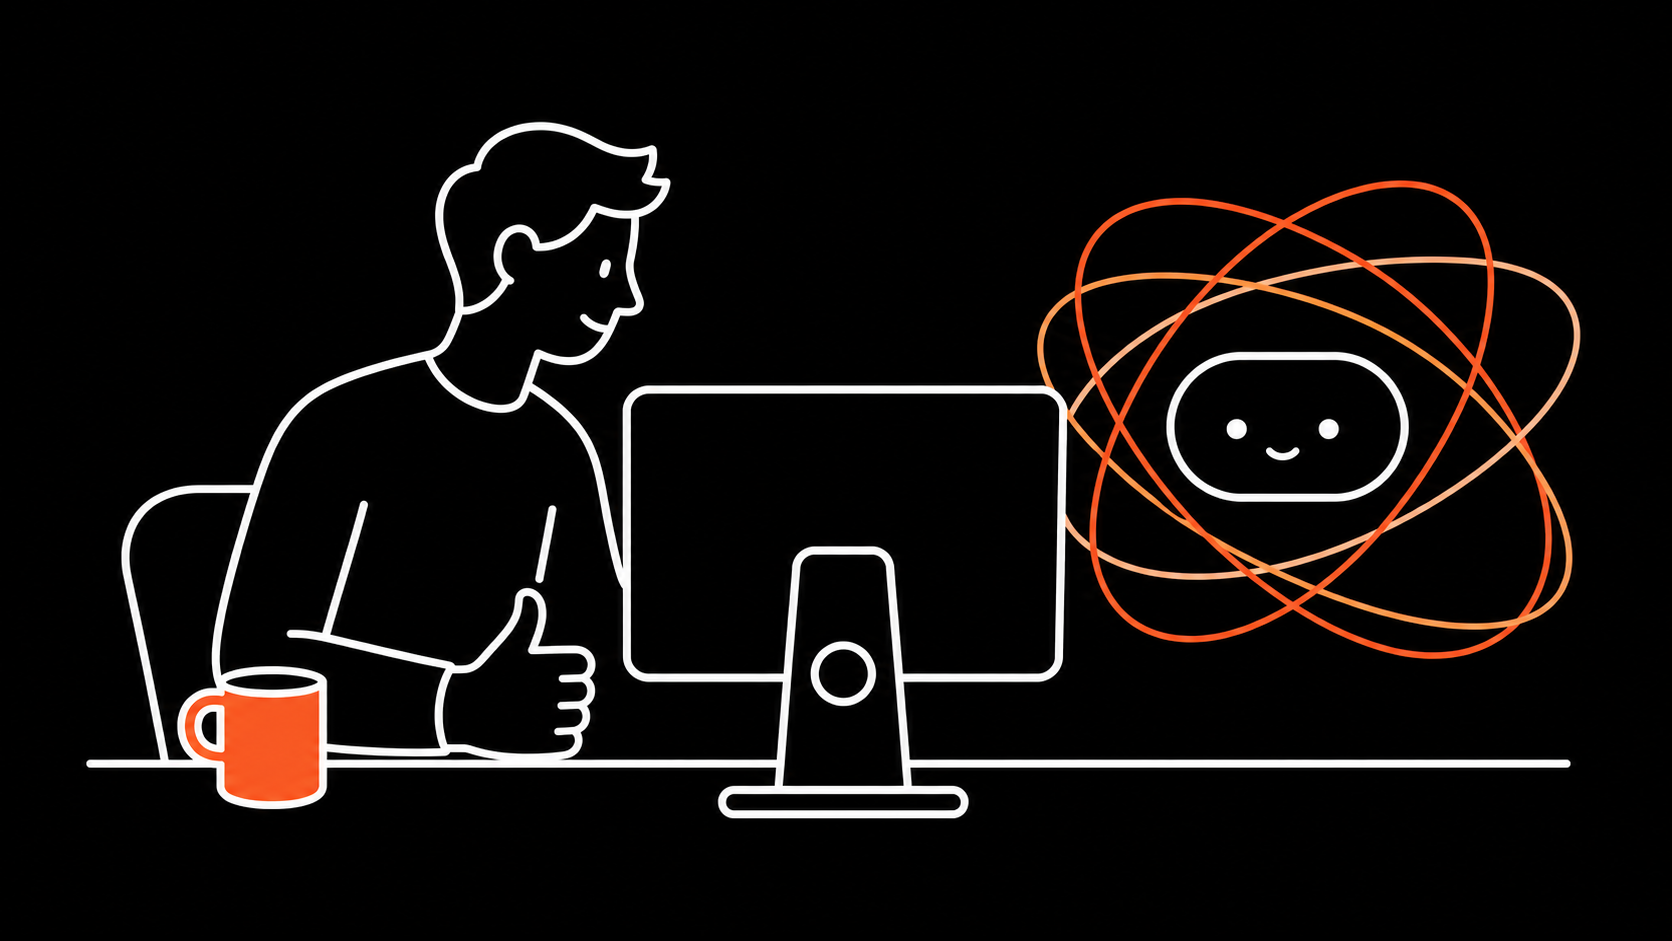
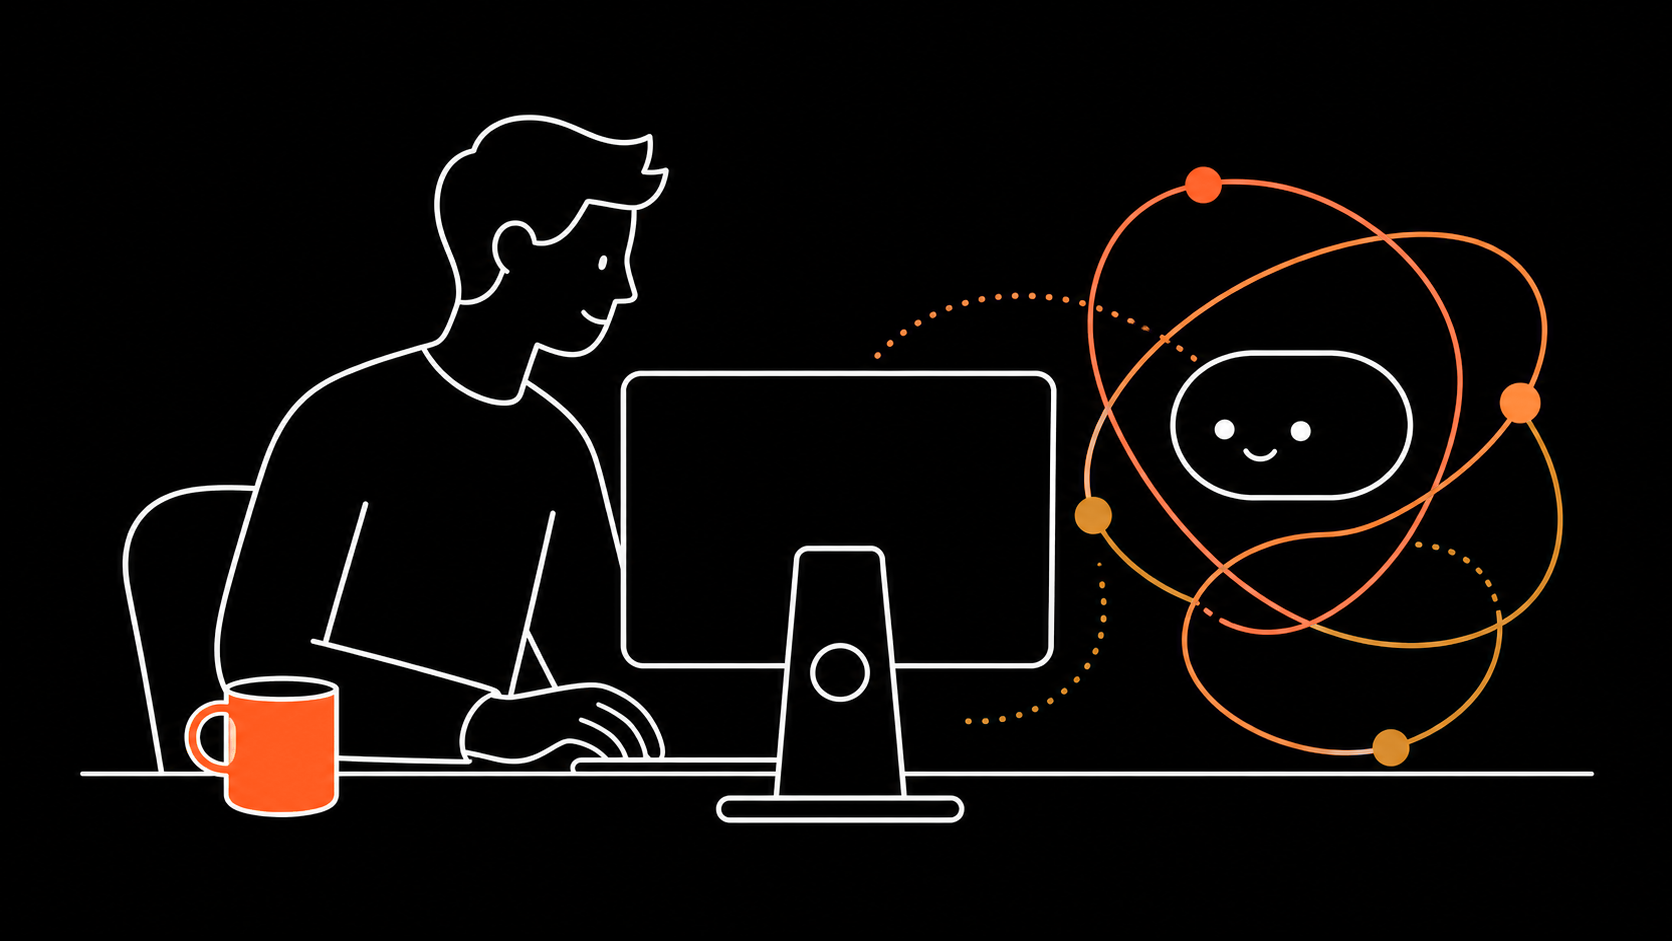
Use orange-shade human loop mockup

diff --git a/docs/design/curyo-human-loop-brand-mockups.html b/docs/design/curyo-human-loop-brand-mockups.html
@@ -684,7 +684,7 @@
         <figure>
           <img
             src="assets/curyo-human-loop-orange-orbits.png"
-            alt="Human giving a thumbs-up beside a desktop computer and an abstract AI collaborator with orange orbit lines"
+            alt="Human working at a desktop computer beside an abstract AI collaborator with orange orbit lines"
           />
         </figure>
         <aside class="hero-art-notes">
@@ -693,7 +693,7 @@
           <ul>
             <li>Use the preferred raster image rather than the simplified redraw.</li>
             <li>Keep the human, desktop computer, mug, and AI in the original positions.</li>
-            <li>Keep the richer orange orbit paths without dot markers.</li>
+            <li>Replace the multicolor orbit accents with orange-family shades.</li>
             <li>Make the first read: AI working together with a human.</li>
           </ul>
         </aside>
@@ -776,7 +776,7 @@
                 <figure class="landing-art">
                   <img
                     src="assets/curyo-human-loop-orange-orbits.png"
-                    alt="Hero mockup showing human and abstract AI collaboration"
+                    alt="Hero mockup showing a human working with an abstract AI collaborator"
                   />
                 </figure>
               </section>
@@ -881,9 +881,8 @@
         <div class="note-box">
           <h2>Prompt Lock</h2>
           <p>
-            For further image edits: preserve the preferred raster composition, keep pure white strokes, keep the mug,
-            keep multiple solid orange AI orbit lines without dot markers, and avoid golden linework or detailed
-            anatomy.
+            For further image edits: preserve the preferred keyboard-hand raster composition, keep pure white strokes,
+            keep the mug, use only orange-family AI orbit accents, and avoid golden linework or detailed anatomy.
           </p>
         </div>
       </section>
